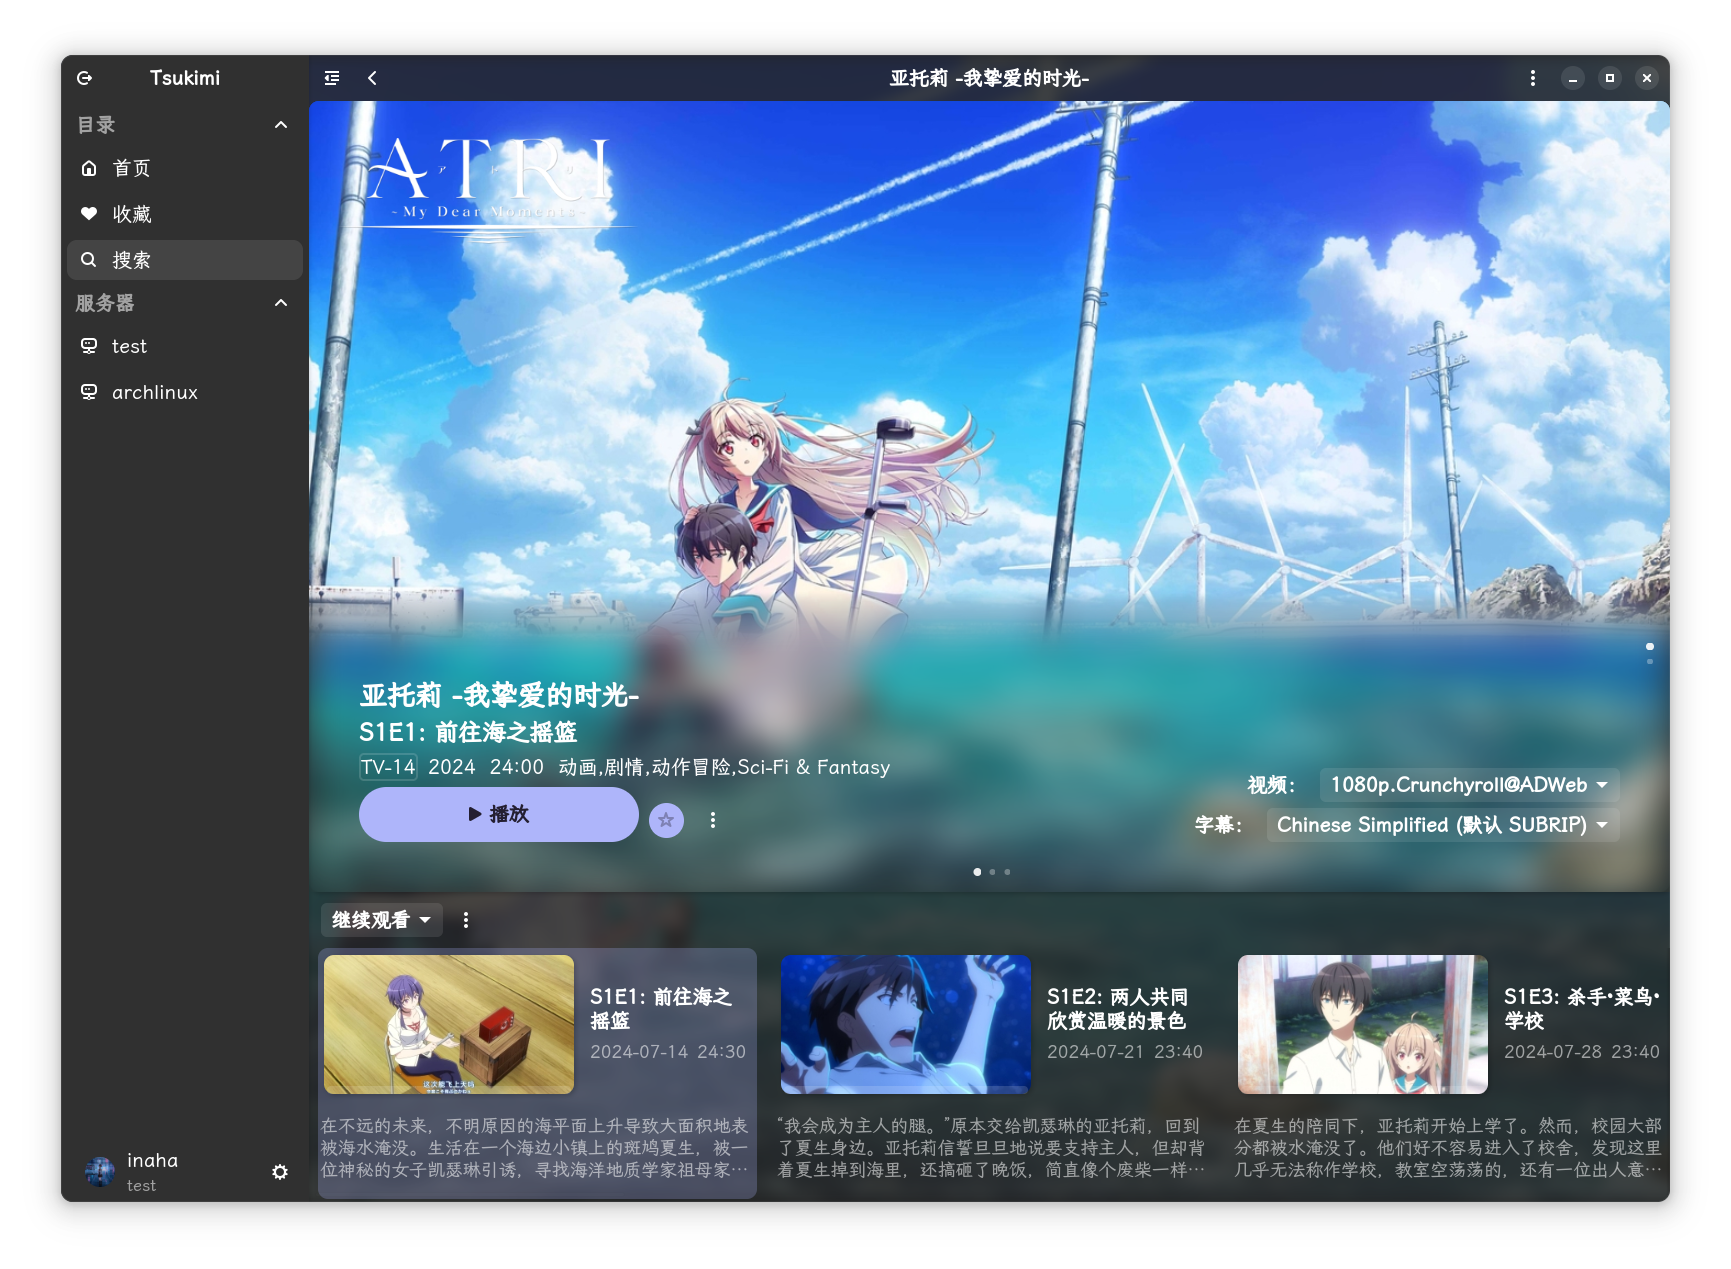
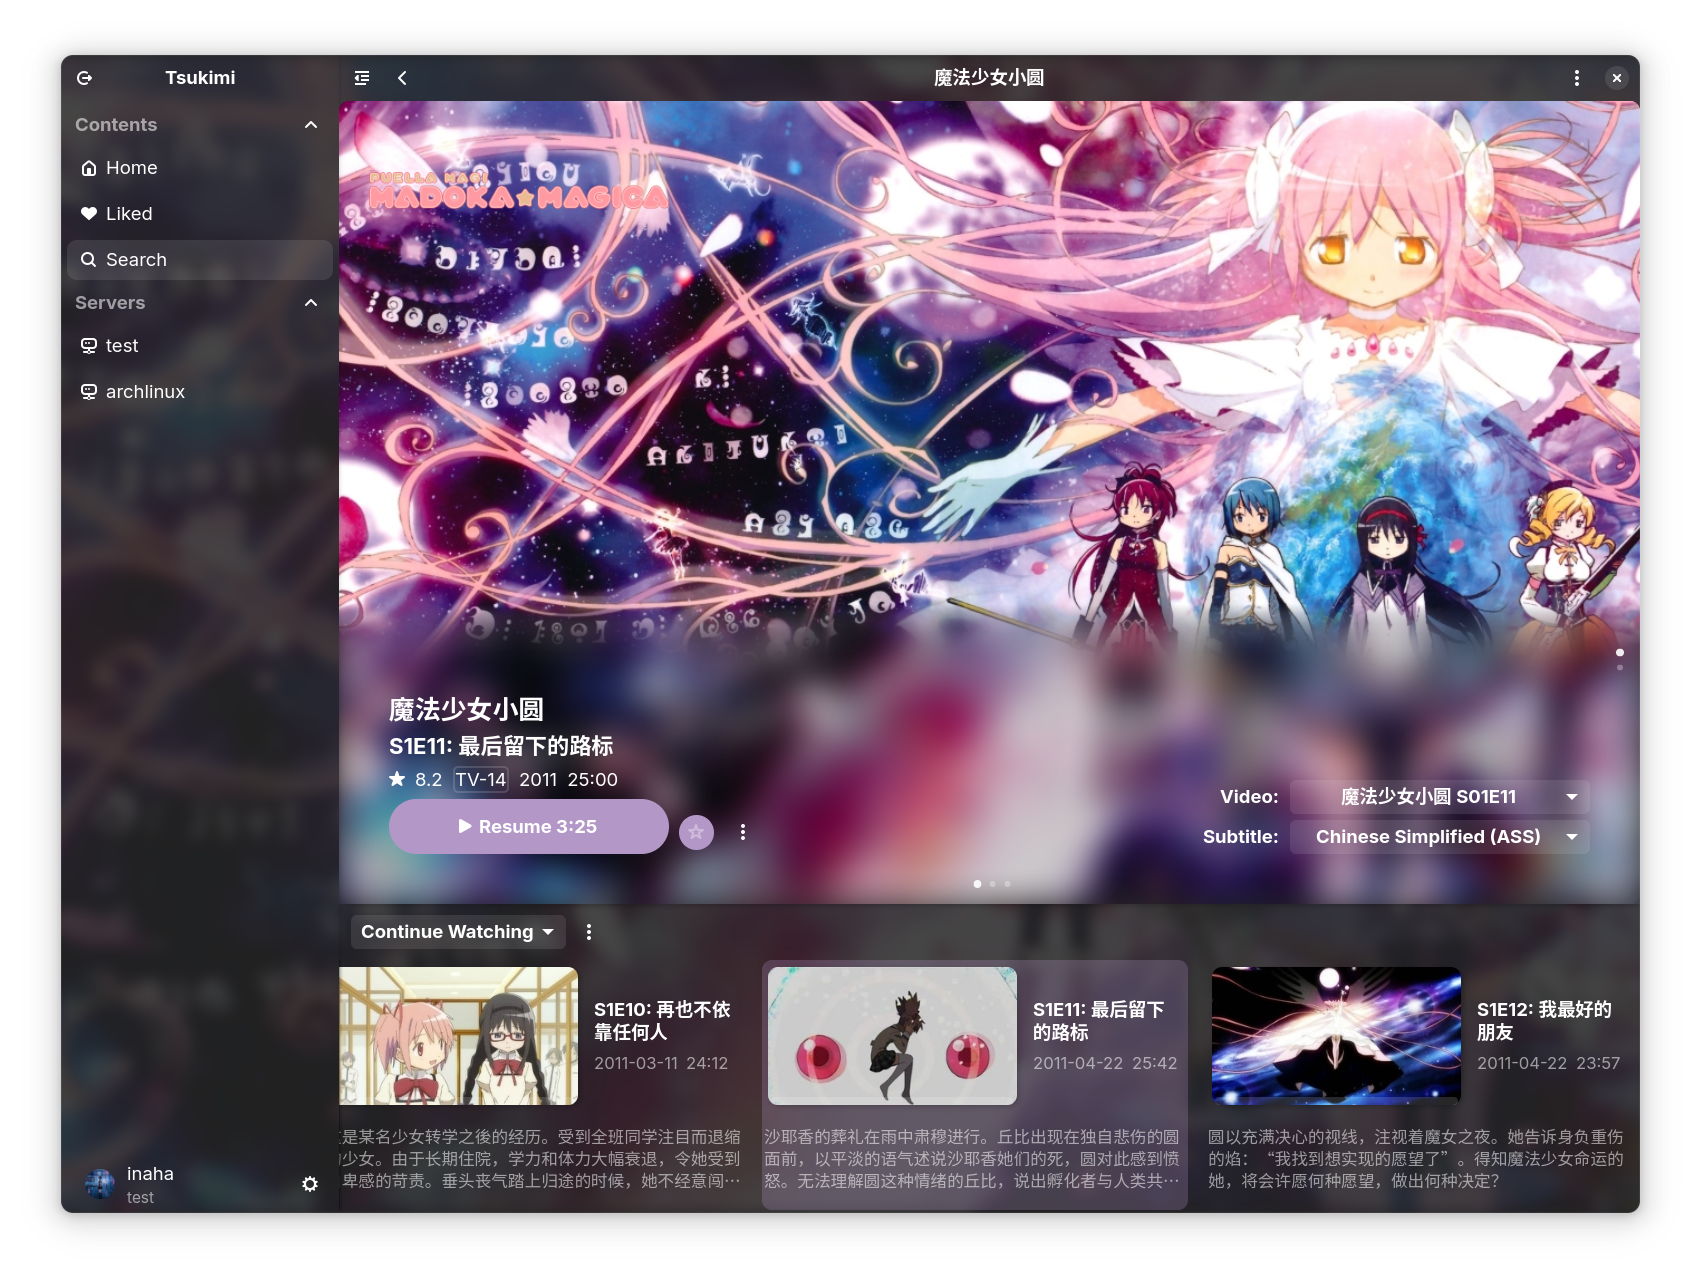
Update screenshots

diff --git a/README.md b/README.md
@@ -20,6 +20,9 @@ You can play music and albums, as well as videos with more advanced settings (yo
 <div align="center">
  <img src="./docs/tsukimi2.png"/>
 </div>
+<div align="center">
+ <img src="./docs/tsukimi3.png"/>
+</div>
 
 ## Installation
 ### Packages
